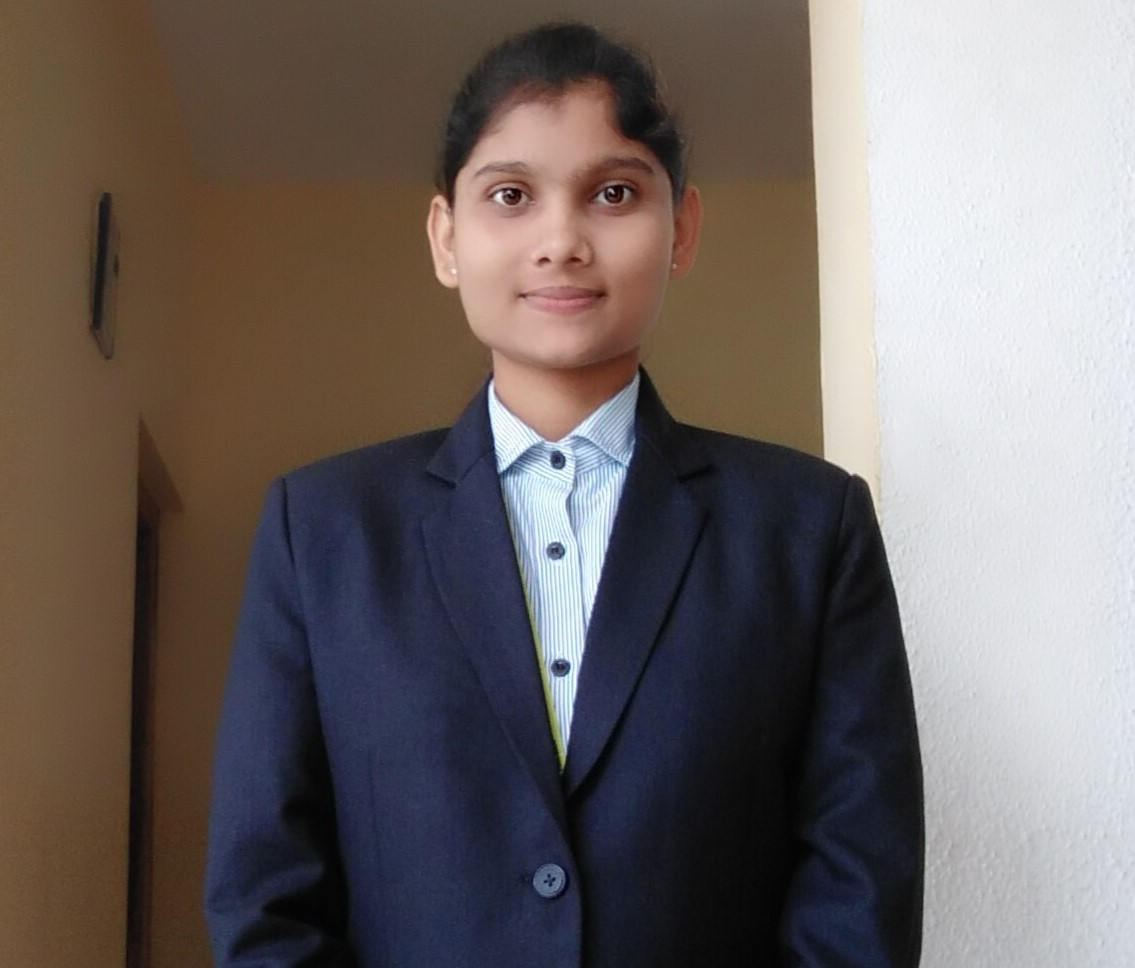
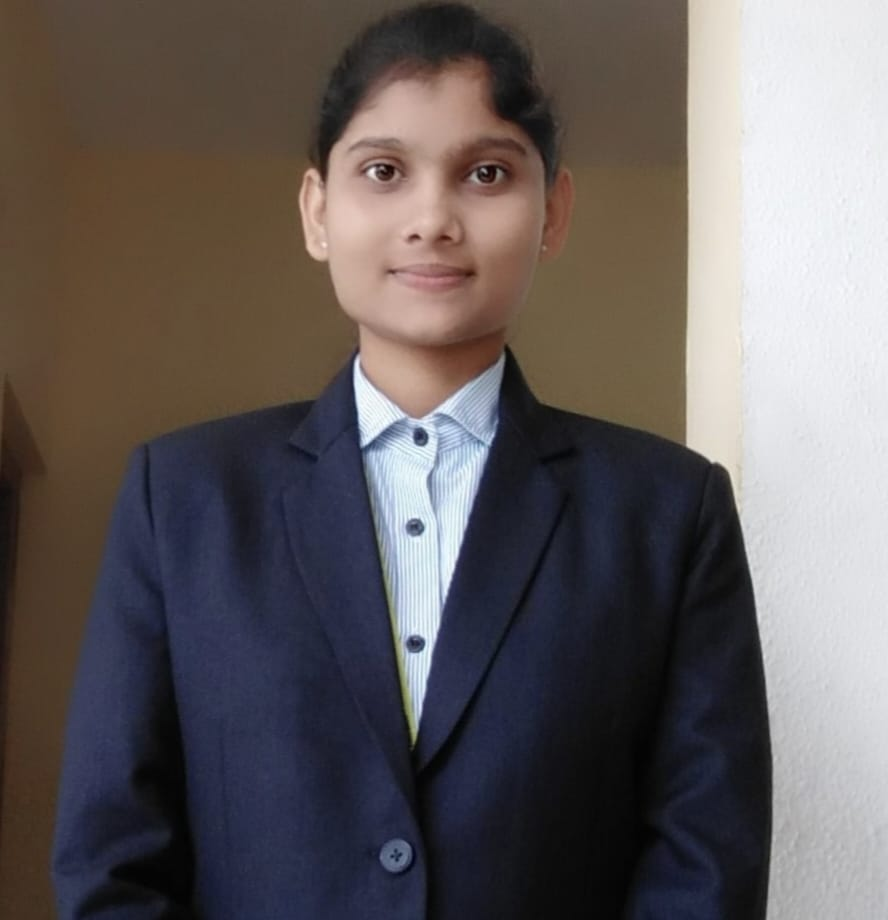
ADD PROFILE PHOTO IN ABOUT PAGE

diff --git a/src/components/About/Team/Team.js b/src/components/About/Team/Team.js
@@ -1,16 +1,20 @@
 import React from 'react';
 import "./Team.css"
 import TeamMember from './../TeamMembers/TeamMemners';
+import Profile from "../Profile.png"
 import NikitaRaut from "../NikitaRaut.jpg"
+import RutujaGaikwad from "../RutujaGaikwad.jpg"
+import sakshiShewale from "../SakshiShewale.jpg"
+import priyankaPhadke from "../PriyankaPhadke.jpg"
 
 
 
-// Sample Data
+
 const teamMembers = [
   { id: 1, name: 'Rutuja Gaikwad ',
     role: 'Lead Designer ',
     bio: 'Loves creating cute and innovative baby outfits.',
-    image: NikitaRaut },
+    image:RutujaGaikwad  },
 
   { id: 2, name: 'Nikita Raut',
     role: 'Founder & CEO',
@@ -20,30 +24,30 @@ const teamMembers = [
   { id: 3, name: 'Sakski Shewale', 
     role: 'Head of Marketing',
     bio: 'Expert in crafting compelling marketing strategies.',
-    image: NikitaRaut },
+    image: sakshiShewale },
 
   { id: 4, name: 'Rutuja More',
     role: 'Product Development Manager', 
     bio: 'Ensures the quality and innovation of our products.', 
-    image: NikitaRaut},
+    image: Profile},
 
   { id: 5, name: 'Rutuja Wabale',
     role: 'Customer Support Manager', 
     bio: 'Dedicated to providing excellent customer service.', 
-    image: NikitaRaut },
+    image: Profile },
 
   { id: 6, 
     name: 'Sakshi Lambe', 
     role: 'Head Financial Officer', 
     bio: 'Manages our financial health and strategies.', 
-    image: NikitaRaut },
+    image: Profile},
 
   { id: 7, name: 'Priyanka Phadke', 
     role: 'Chief Financial Officer', 
     bio: 'Manages our financial health and strategies.', 
-    image:  NikitaRaut},
+    image:  priyankaPhadke },
 
-  // Add more team members as needed
+
 ];
 
 const Team = () => {

diff --git a/src/index.css b/src/index.css
@@ -1,8 +1,7 @@
 
 @import url('https://fonts.googleapis.com/css2?family=Indie+Flower&family=Playwrite+BR:wght@100..400&family=Shadows+Into+Light&display=swap');
 
-body{
- 
+body{ 
     font-family: "Shadows Into Light", cursive;
     font-weight: 400;
     font-style: normal;
